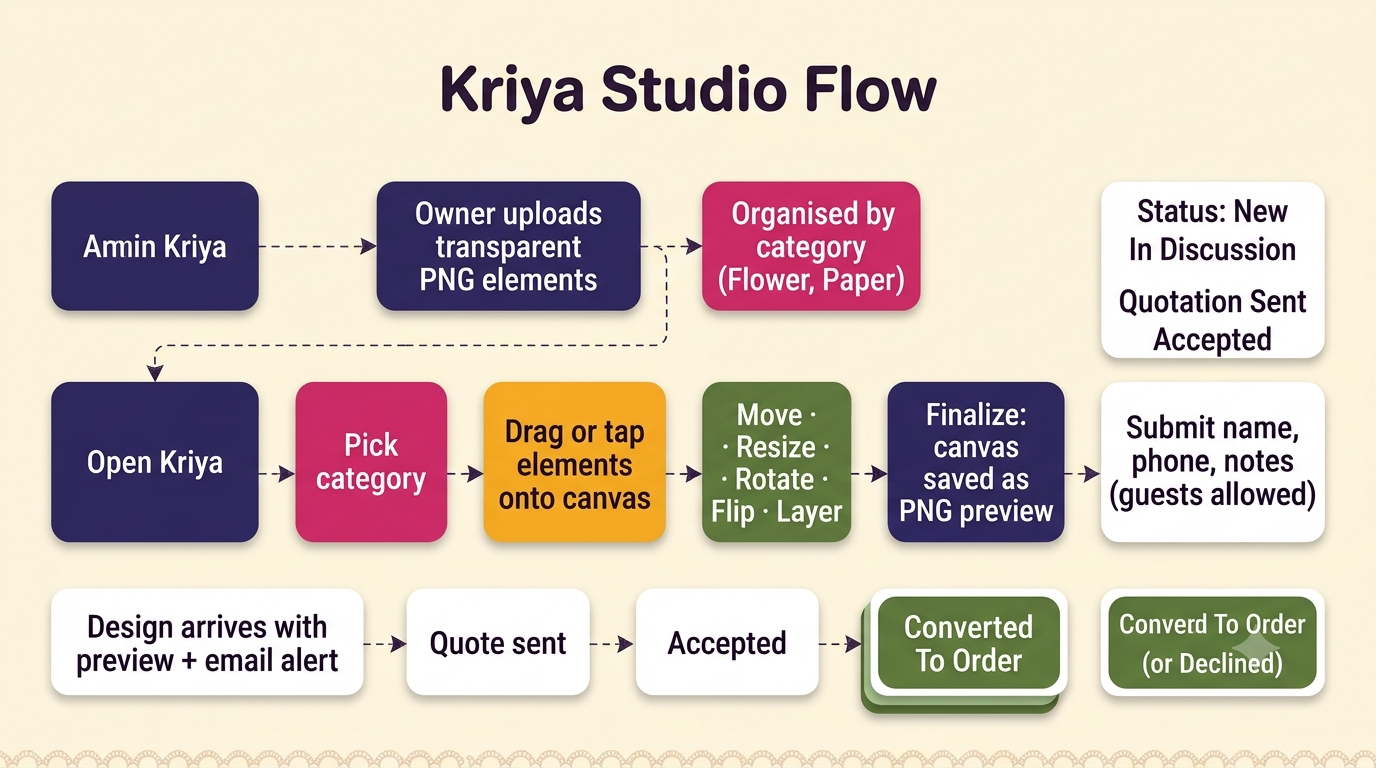
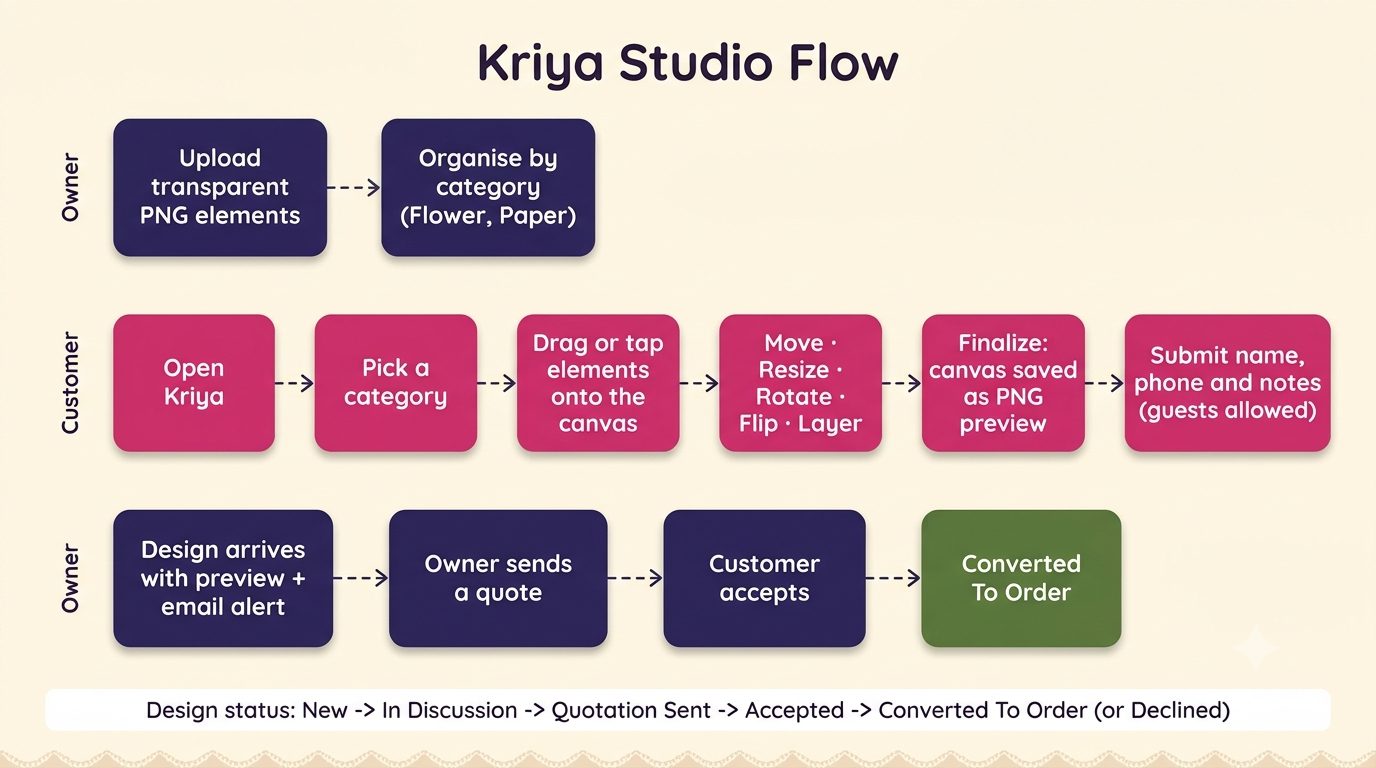
README and Diagram Update

diff --git a/README.md b/README.md
@@ -96,7 +96,7 @@
 
 <table>
 <tr>
-<td width="50%"><img src="public/screenshot-admin-orders.png" alt="Admin order detail"/><p align="center"><sub><strong>Orders</strong>: verify payments and move orders through the pipeline</sub></p></td>
+<td width="50%"><img src="public/screenshot-admin-orders.png" alt="Admin order detail"/><p align="center"><sub><strong>Orders</strong>: verify or decline payments and move orders through the pipeline</sub></p></td>
 <td width="50%"><img src="public/screenshot-admin-payment-settings.png" alt="Payment settings"/><p align="center"><sub><strong>Payment Settings</strong>: switch the active UPI owner without a redeploy</sub></p></td>
 </tr>
 </table>
@@ -481,6 +481,7 @@ Utsaah-V1.0/
 | | |
 |---|---|
 | **Payments are verified by hand** | There is no gateway or automatic reconciliation. "I've Paid" is customer-reported, and the owner confirms it against their own UPI app. |
+| **Refunds are processed by hand** | The owner issues every refund from Returns & Refunds. A refund to the wallet is instant, but a refund to the original payment method is sent manually by the owner and then marked complete. |
 | **Email needs SMTP** | Without SMTP credentials, notifications still appear in the app but emails are only logged on the server. |
 | **No stock counts** | Products are made to order, so they carry an availability flag and production days rather than inventory quantities. |
 | **Kriya is quote-based** | A finalized design is a request, not an instant purchase. The owner quotes a price manually. |
@@ -528,6 +529,6 @@ Released under the **MIT License**.
 
 **Handmade with care, designed and built end to end on free-tier infrastructure.**
 
-<sub>Utsaah · Handcrafted with Zeal · 2026</sub>
+<sub>Utsaah · Handcrafted with Love · 2026</sub>
 
 </div>
